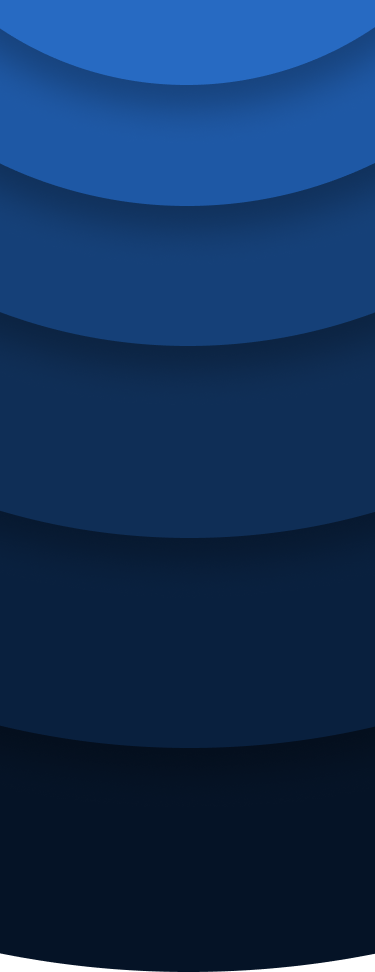
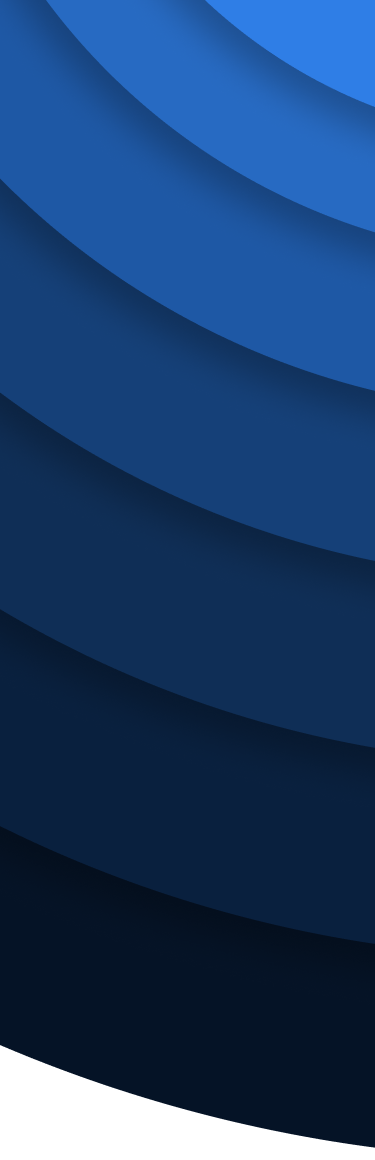
Edited mobile styling

diff --git a/src/components/Header/Header.jsx b/src/components/Header/Header.jsx
@@ -1,5 +1,6 @@
 import React from 'react'
 import HeaderPulse from '../../assets/pulses/header-pulse.png'
+import MobileHeaderPulse from '../../assets/pulses/mobile-header-pulse.png'
 import './Header.scss'
 
 const Header = () => {
@@ -7,6 +8,9 @@ const Header = () => {
         <section className="header">
             <figure className="header__pulse hide-on-mobile">
                 <img src={HeaderPulse} className="responsive-img" alt="Header pulse" />
+            </figure>
+            <figure className="show-on-mobile header__pulse-mobile">
+                <img src={MobileHeaderPulse} className="responsive-img" alt="Header pulse" />
             </figure>
             <article className="header__intro center-column">
                 <h1 className="header__intro--name">I'm Andrew Aiello</h1>

diff --git a/src/components/Header/Header.scss b/src/components/Header/Header.scss
@@ -37,16 +37,22 @@
         z-index: -1;
     }
 
+    &__pulse-mobile {
+        position: absolute;
+        top: 0;
+        right: 0;
+        margin: 0;
+        width: 100%;
+        z-index: -1;
+    }
+
     @media only screen and (max-width: 600px) {
 
         align-items: center;
-        background: linear-gradient(#276AC2, #121212); 
 
         &__intro {
             width: 100%;
             margin: 0;
-
-            
 
             &--name {
                 font-size: 2.5rem;

diff --git a/src/components/ProjectsSection/ProjectsSection.scss b/src/components/ProjectsSection/ProjectsSection.scss
@@ -122,11 +122,13 @@
                 width: 100%;
 
                 &--large-pulse {
-                    width: 90%;
+                    width: 200%;
+                    left: -280px;
                 }
         
                 &--small-pulse {
-                    width: 70%;
+                    width: 150%;
+                    right: -300px;
                 }
 
                 &--details {
